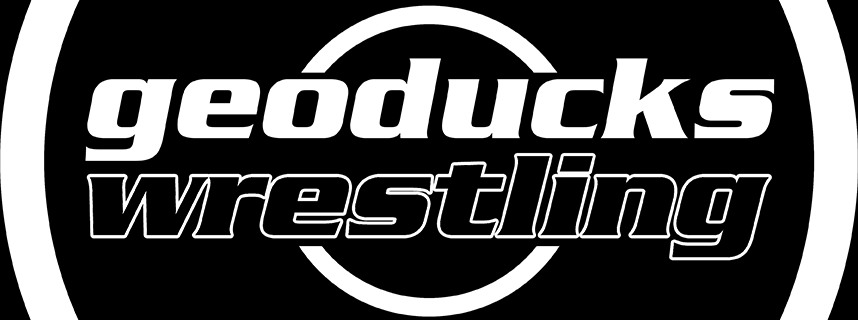
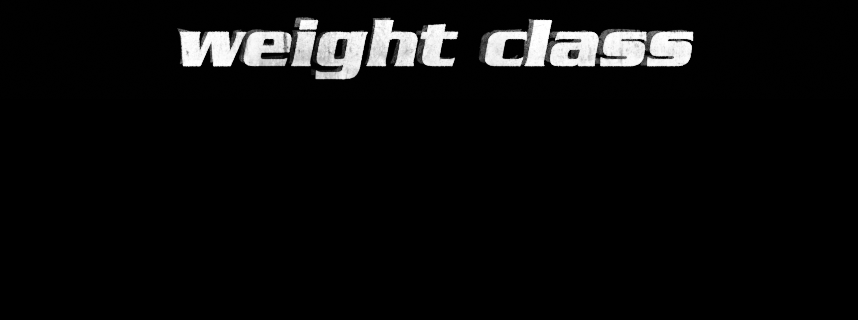
local weight class feature

diff --git a/main.qml b/main.qml
@@ -145,7 +145,7 @@ Window {
                     id: basketballDigits
                     objectName: "basketballDigits"
 
-                    // design canvas in 1080p, scaled down to fit basketballView
+                    // design canvas in 1920x1080, scaled down to fit basketballView
                     width: 1920
                     height: 1080
                     transformOrigin: Item.TopLeft
@@ -175,6 +175,9 @@ Window {
                     property int secondOnesDigit: 0
                     property int shotTensDigit: 0
                     property int shotOnesDigit: 0
+                    property int wgHundredsDigit: 0
+                    property int wgTensDigit: 0
+                    property int wgOnesDigit: 0
 
                     Image {
                         id: homeLogo
@@ -635,6 +638,63 @@ Window {
                     }
 
                     Item {
+                        id: wgHundreds
+                        x: 1183
+                        y: 805
+                        width: 177
+                        height: 235
+                        opacity: 0
+                        visible: appController.isWrestlingMode && !controlPanel.isHeavyweight
+                        Image {
+                            source: "media/wgHundreds.png"
+                            anchors.fill: parent
+                            fillMode: Image.Stretch
+                            sourceClipRect: Qt.rect(0, height * basketballDigits.wgHundredsDigit, width, height)
+                        }
+                    }
+
+                    Item {
+                        id: wgTens
+                        x: 1361
+                        y: 805
+                        width: 172
+                        height: 235
+                        opacity: 0
+                        visible: appController.isWrestlingMode && !controlPanel.isHeavyweight
+                        Image {
+                            source: "media/wgTens.png"
+                            anchors.fill: parent
+                            fillMode: Image.Stretch
+                            sourceClipRect: Qt.rect(0, height * basketballDigits.wgTensDigit, width, height)
+                        }
+                    }
+
+                    Item {
+                        id: wgOnes
+                        x: 1533
+                        y: 805
+                        width: 179
+                        height: 235
+                        visible: appController.isWrestlingMode && !controlPanel.isHeavyweight
+                        Image {
+                            source: "media/wgOnes.png"
+                            anchors.fill: parent
+                            fillMode: Image.Stretch
+                            sourceClipRect: Qt.rect(0, height * basketballDigits.wgOnesDigit, width, height)
+                        }
+                    }
+
+                    Image {
+                        id: heavyImage
+                        source: "media/heavy.png"
+                        x: 1010
+                        y: 812
+                        width: 858
+                        height: 228
+                        visible: appController.isWrestlingMode && controlPanel.isHeavyweight
+                    }
+
+                    Item {
                         x: 38
                         y: 29
                         width: 1051
@@ -803,6 +863,8 @@ Window {
                 property int homeFouls: 0
                 property int visitorFouls: 0
                 property int period: 1
+                property string weightClass: ""
+                readonly property bool isHeavyweight: (parseInt(weightClassInput.text, 10) > 199) || (weightClassInput.text.trim().length > 0 && weightClassInput.text.trim().toLowerCase().startsWith("h"))
 
                 property int clockTimeInTenths: 0
                 property bool clockRunning: false
@@ -980,6 +1042,32 @@ Window {
                                     placeholderText: "Leave empty to accept from any IP"
                                     onEditingFinished: appController.sourceIp = text
                                 }
+                            }
+                        }
+                    }
+
+                    GroupBox {
+                        title: "Team Names"
+                        width: parent.width
+                        visible: appController.isWrestlingMode && manualSwitch.checked
+                        Column {
+                            width: parent.width
+                            spacing: 8
+                            TextField {
+                                placeholderText: "Home Name"
+                                text: appController.homeName
+                                onEditingFinished: {
+                                    appController.homeName = text;
+                                }
+                                width: parent.width
+                            }
+                            TextField {
+                                placeholderText: "Away Name"
+                                text: appController.opponentName
+                                onEditingFinished: {
+                                    appController.opponentName = text;
+                                }
+                                width: parent.width
                             }
                         }
                     }
@@ -1193,13 +1281,14 @@ Window {
                         GroupBox {
                             title: "Period"
                             Layout.fillWidth: true
-                            Layout.columnSpan: 2
+                            Layout.columnSpan: appController.isWrestlingMode ? 1 : 2
                             visible: manualSwitch.checked
                             Column {
                                 spacing: 4
                                 Row {
                                     spacing: 4
                                     Button {
+                                        id: periodButton
                                         text: "▲"
                                         onClicked: {
                                             controlPanel.setPeriodDigit(controlPanel.period + 1);
@@ -1220,6 +1309,44 @@ Window {
                                             appController.sendManualUpdate();
                                         }
                                     }
+                                }
+                            }
+                        }
+
+                        GroupBox {
+                            title: "Weight Class"
+                            Layout.fillWidth: true
+                            visible: appController.isWrestlingMode && manualSwitch.checked
+                            TextField {
+                                id: weightClassInput
+                                placeholderText: "Enter weight class"
+                                text: controlPanel.weightClass
+                                onTextChanged: {
+                                    controlPanel.weightClass = text;
+                                    var value = parseInt(text);
+                                    if (isNaN(value) || value < 0) {
+                                        value = 0;
+                                    }
+                                    if (value > 999) {
+                                        value = 999;
+                                    }
+
+                                    wgHundreds.opacity = value >= 100 ? 1 : 0;
+                                    wgTens.opacity = value >= 10 ? 1 : 0;
+
+                                    basketballDigits.wgHundredsDigit = Math.floor(value / 100) % 10;
+                                    basketballDigits.wgTensDigit = Math.floor(value / 10) % 10;
+                                    basketballDigits.wgOnesDigit = value % 10;
+                                }
+                                implicitHeight: periodButton.height
+                                anchors.left: parent.left
+                                anchors.right: parent.right
+                                anchors.verticalCenter: parent.verticalCenter
+                                background: Rectangle {
+                                    radius: 2
+                                    border.width: 1
+                                    border.color: weightClassInput.activeFocus ? "orange" : "gray"
+                                    color: Application.styleHints.colorScheme === Qt.ColorScheme.Dark ? "#333" : "#fff"
                                 }
                             }
                         }
